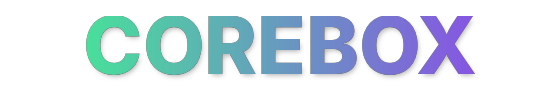
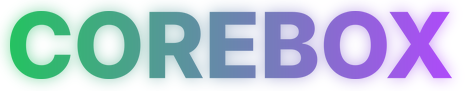
로고 글씨체 코어싱크랑 맞추고, 소득금액증명 자동분류 깨지던 거 고침
- wordmark.png: 코어싱크 실제 로고(Inter ExtraBold, 굵기/자간/은은한
  번짐 효과)를 그대로 측정해서 COREBOX 글자를 같은 방식으로 다시 생성.
  색만 초록-보라로.
- 실제 소득금액증명 PDF로 테스트해보니 국세청 서류 제목이 "소 득 금 액
  증 명"처럼 글자 사이가 띄워져서 나와 서류 종류 인식 자체가 실패하고
  있었음 - 공백 제거하고 비교하도록 수정.
- 수입금액/소득금액도 표 칸이 넓게 벌어져 있어서(제일 오른쪽 "합계" 칸
  값이 진짜 값인데 라벨 바로 뒤 첫 숫자만 보고 있었음) 그 줄의 마지막
  숫자를 쓰도록 수정.
Claude-Session: https://claude.ai/code/session_01KvdDNG39ZNErk4kcAfZdEz

diff --git a/corebox/app.py b/corebox/app.py
@@ -89,8 +89,12 @@ _GENERIC_AMOUNT_LABELS = {
 
 
 def _classify_text(text):
+    """국세청 서류는 제목을 "소 득 금 액 증 명"처럼 글자 사이를 띄워서
+    뽑히는 경우가 많아(가운데 정렬용 레이아웃), 공백을 다 지운 텍스트로
+    비교한다."""
+    compact = re.sub(r"\s+", "", text)
     for label, keywords in _DOC_TYPE_RULES:
-        if any(k in text for k in keywords):
+        if any(k in compact for k in keywords):
             return label
     return ""
 
@@ -186,6 +190,24 @@ def _extract_amount_near_label(text, label):
         return float(m.group(1).replace(",", ""))
     except ValueError:
         return None
+
+
+def _extract_amount_from_row(text, label):
+    """소득금액증명의 "수입금액 0 0 72,934,754 ... 100,125,472"처럼 라벨과
+    숫자 사이가 표 칸 정렬용 공백으로 멀리 떨어져 있고, 숫자도 여러 개가
+    나오는 행이 있다. 그 행(같은 줄)에서 라벨을 찾아 그 줄의 마지막 숫자
+    (합계 칸)를 쓴다. 숫자가 없는 줄(용어설명 등)은 건너뛰고 다음 줄을
+    본다."""
+    for line in text.split("\n"):
+        if label not in line:
+            continue
+        numbers = re.findall(r"-?[\d,]{4,}", line)
+        if numbers:
+            try:
+                return float(numbers[-1].replace(",", ""))
+            except ValueError:
+                continue
+    return None
 
 
 def _extract_generic_amount(doc_type, text):
@@ -290,8 +312,8 @@ def _classify_document(filename, text):
     taxable_income_amount = None
     amount = None
     if doc_type == "소득금액증명":
-        income_amount = _extract_amount_near_label(text, "수입금액")
-        taxable_income_amount = _extract_amount_near_label(text, "소득금액")
+        income_amount = _extract_amount_from_row(text, "수입금액")
+        taxable_income_amount = _extract_amount_from_row(text, "소득금액")
     else:
         amount = _extract_generic_amount(doc_type, text)
     period_label = _period_label_from_date(period.split("~")[0]) if period else (f"{str(year)[2:]}년" if year else "")
